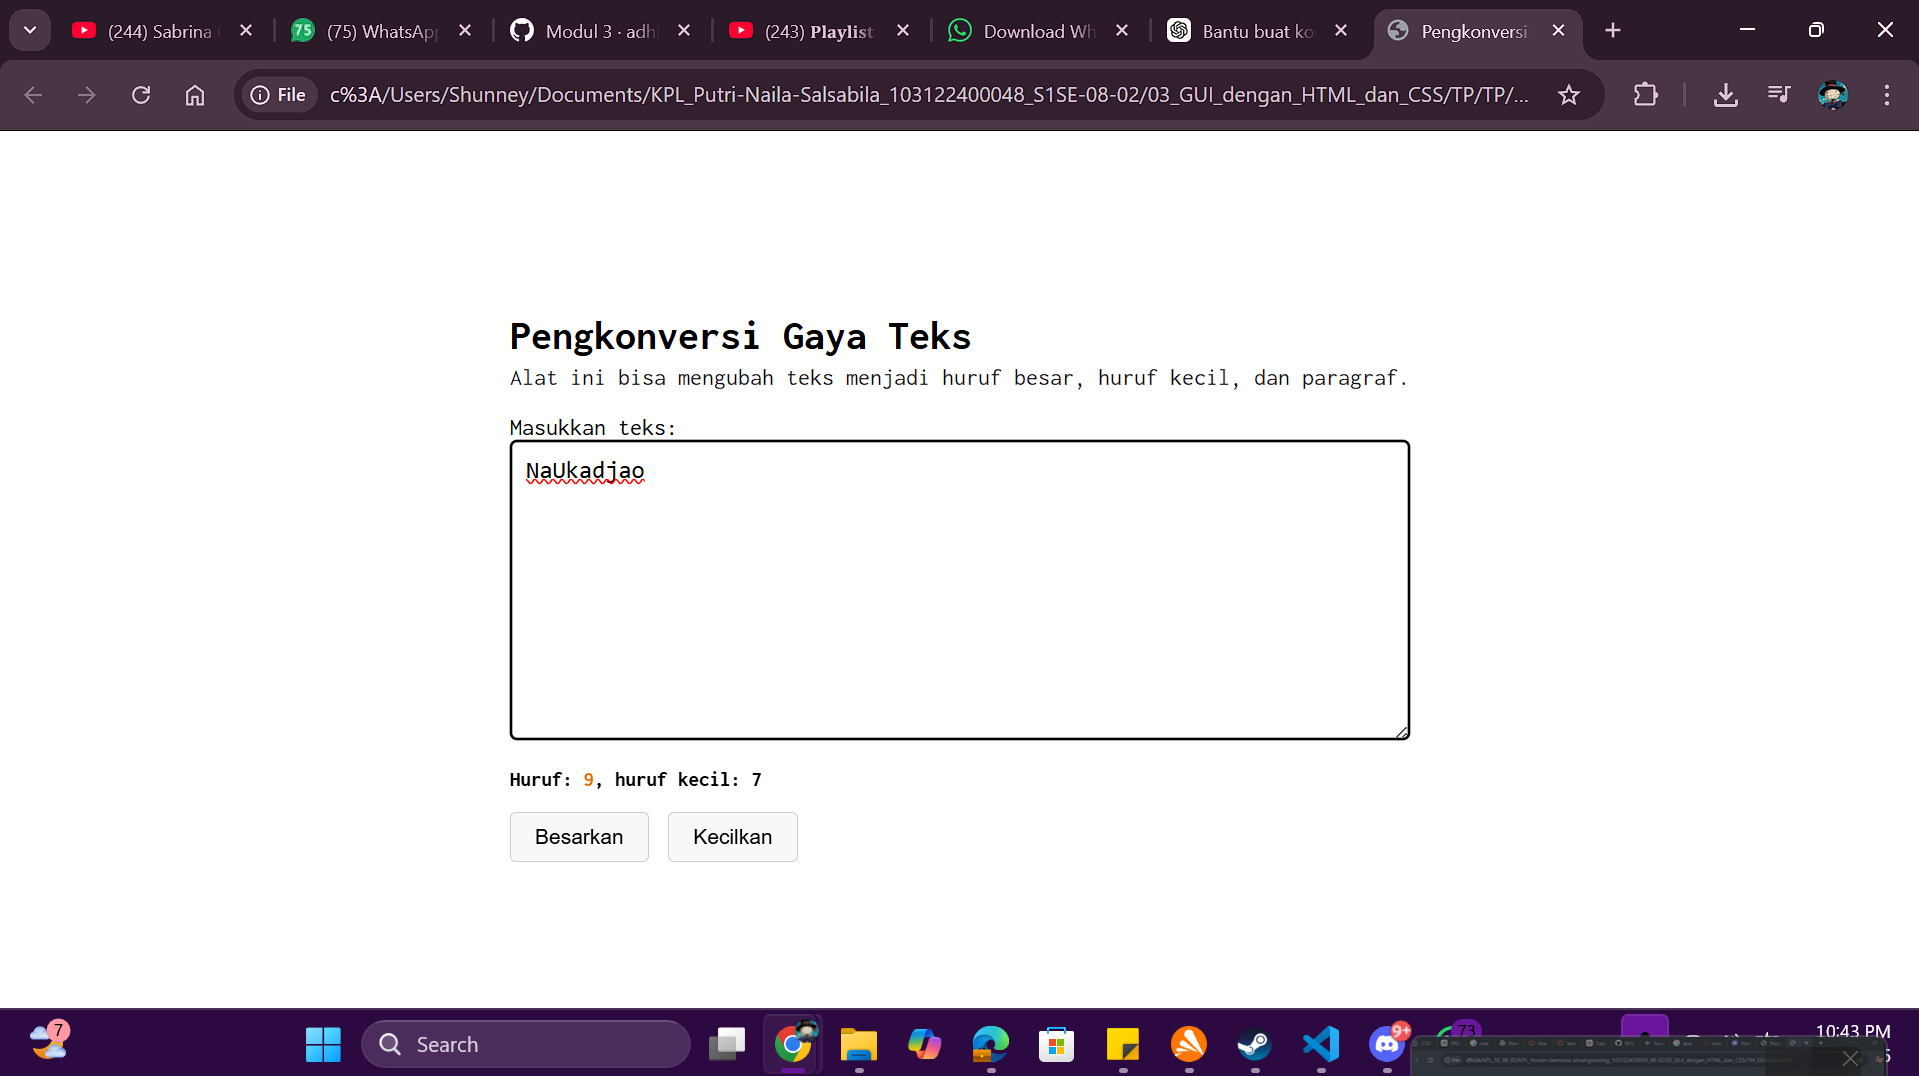
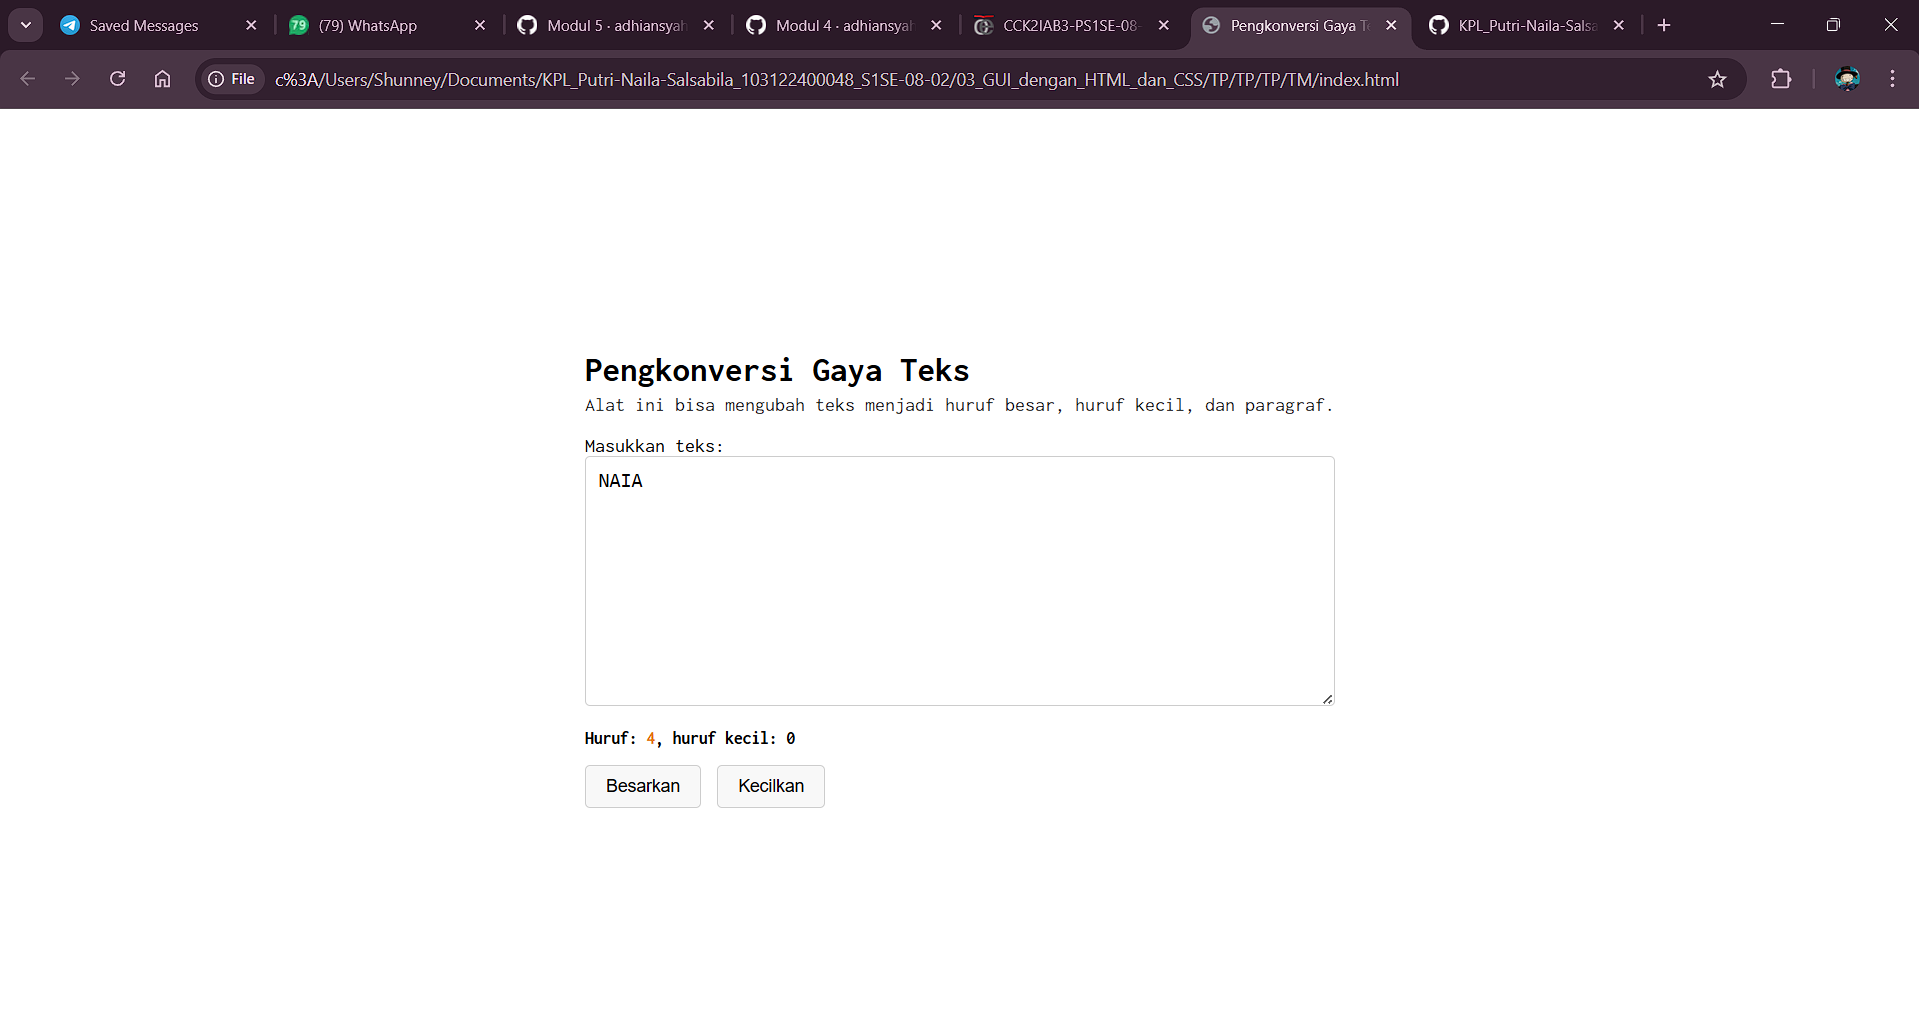
TM04 DAN TP05 PUSH

diff --git a/04_Automata dan Table-Driven Construction/TP/TM/index.css b/04_Automata dan Table-Driven Construction/TP/TM/index.css
@@ -1,0 +1,116 @@
+
+body {
+    margin: 0;
+    height: 100vh; 
+    display: flex;
+    justify-content: center; 
+    align-items: center;     
+    background-color: #ffffff;
+    font-family: 'Inconsolata', Tahoma, Geneva, Verdana, sans-serif;
+}
+
+.container {
+    width: 100%;
+    max-width: 600px; 
+    padding: 20px;
+}
+
+h2 {
+    margin-bottom: 5px;
+    font-size: 28px;
+}
+
+p {
+    margin-top: 0;
+    color: #333;
+    font-size: 16px;
+}
+
+textarea {
+    width: 100%;
+    height: 200px;
+    padding: 10px;
+    font-size: 16px;
+    border: 1px solid #ccc;
+    border-radius: 4px;
+    box-sizing: border-box; 
+    resize: vertical;
+}
+
+.stats {
+    margin: 15px 0;
+    font-weight: bold;
+    font-size: 14px;
+}
+
+#charCount, #upperCount, #lowerCount {
+    color: #e67e22; 
+}
+
+button {
+    padding: 8px 16px;
+    font-size: 14px;
+    cursor: pointer;
+    background-color: #29ddcc;
+    border: none;
+    border-radius: 4px;
+    margin: 0;
+}
+
+.button-group {
+    display: flex;
+    flex-wrap: wrap;
+    gap: 10px; 
+}
+
+.button-group {
+    margin-top: 10px;
+}
+
+button:hover {
+    background-color: #e0e0e0;
+}
+
+.dark-mode {
+    background-color: #0f172a;
+    color: #ffffff;
+}
+
+.dark-mode .container {
+    background-color: #1e293b;
+}
+
+.dark-mode textarea {
+    background-color: #2e3443;
+    color: #ffffff;
+    border: none; 
+}
+
+.dark-mode button {
+    background-color: #29ddcc;
+    color: #000;
+    border: none; 
+}
+
+.dark-mode button:hover {
+    background-color: #20c4b4;
+}
+
+.dark-mode p {
+    color: #cbd5e1; 
+}
+
+.sepia-mode {
+    background-color: #F4ECD8;
+    color: #5B4636;
+}
+
+.sepia-mode textarea {
+    background-color: #ffffff;
+    color: #000000;
+    border: 1px solid #ccc;
+}
+
+.sepia-mode p {
+    color: #5B4636;
+}

diff --git a/04_Automata dan Table-Driven Construction/TP/TM/index.html b/04_Automata dan Table-Driven Construction/TP/TM/index.html
@@ -1,0 +1,40 @@
+<!DOCTYPE html>
+<html lang="id">
+<head>
+    <meta charset="UTF-8">
+    <meta name="viewport" content="width=device-width, initial-scale=1.0">
+    <title>Pengkonversi Gaya Teks</title>
+    <link rel="preconnect" href="https://fonts.googleapis.com">
+    <link rel="preconnect" href="https://fonts.gstatic.com" crossorigin>
+    <link href="https://fonts.googleapis.com/css2?family=Inconsolata:wght@200..900&display=swap" rel="stylesheet">
+    <link rel="stylesheet" href="index.css">
+</head>
+<body>
+
+    <div class="container">
+        <h2>Pengkonversi Gaya Teks</h2>
+        <p>Alat ini bisa mengubah teks menjadi huruf besar, huruf kecil, dan paragraf.</p>
+
+        <label for="inputText">Masukkan teks:</label>
+        <textarea id="inputText" placeholder="Kata-kata..."></textarea>
+
+        <div class="stats">
+           Huruf: <span id="charCount">0</span>,
+           huruf kecil: <span id="hk">0</span>
+        </div>
+
+        <div class="button-group">
+           <button id="huruf-besar">Besarkan</button>
+           <button id="huruf-kecil">Kecilkan</button>
+        </div>
+
+        <div class="button-group">
+            <button id="mode-terang">Mode Terang</button>
+            <button id="mode-gelap">Mode Gelap</button>
+            <button id="mode-sepia">Mode Sepia</button>
+        </div>
+    </div>
+
+    <script src="index.js"></script>
+</body>
+</html>

diff --git a/04_Automata dan Table-Driven Construction/TP/TM/index.js b/04_Automata dan Table-Driven Construction/TP/TM/index.js
@@ -1,0 +1,46 @@
+const textarea = document.getElementById("inputText");
+const charCount = document.getElementById("charCount");
+const hk = document.getElementById("hk");
+
+const btnBesar = document.getElementById("huruf-besar");
+const btnKecil = document.getElementById("huruf-kecil");
+
+const btnTerang = document.getElementById("mode-terang");
+const btnGelap = document.getElementById("mode-gelap");
+const btnSepia = document.getElementById("mode-sepia");
+
+function updateStats() {
+
+    const text = textarea.value;
+
+    charCount.innerText = text.length;
+
+    hk.innerText = (text.match(/[a-z]/g) || []).length;
+}
+
+textarea.addEventListener("input", updateStats);
+
+btnBesar.addEventListener("click", function(){
+    textarea.value = textarea.value.toUpperCase();
+    updateStats();
+});
+
+btnKecil.addEventListener("click", function(){
+    textarea.value = textarea.value.toLowerCase();
+    updateStats();
+});
+
+btnGelap.addEventListener("click", function () {
+    document.body.classList.add("dark-mode");
+    document.body.classList.remove("sepia-mode");
+});
+
+btnTerang.addEventListener("click", function () {
+    document.body.classList.remove("dark-mode");
+    document.body.classList.remove("sepia-mode");
+});
+
+btnSepia.addEventListener("click", function () {
+    document.body.classList.remove("dark-mode");
+    document.body.classList.add("sepia-mode");
+});

diff --git a/05_Generics/TP_05/hitungjumlah.js b/05_Generics/TP_05/hitungjumlah.js
@@ -1,0 +1,28 @@
+function hitung(teks, tipe) {
+    let hasil = 0;
+
+    for (const c of teks) {
+        if (tipe === "semua") {
+            hasil++;
+
+        } else if (tipe === "huruf") {
+            if (c === ' ') continue;
+            hasil++;
+        }
+    }
+
+    return hasil;
+}
+
+//TEST CODE
+const str = "Bar bar bar";
+
+console.log(
+    hitung(str, "semua") 
+);
+
+console.log(
+    hitung(str, "huruf") 
+);
+
+hitung(str, "huruf");

diff --git a/05_Generics/TP_05/TP_05.md b/05_Generics/TP_05/TP_05.md
@@ -1,0 +1,17 @@
+# Tugas Pendahuluan: Generics
+
+**Nama:** Putri Naila Salsabila
+**NIM:** 103122400048 
+**Kelas:** SE-08-02
+
+## Program/Kode
+
+Tersedia di [hitungjumlah.js](../TP_05/hitungjumlah.js) 
+
+## Output
+
+![Gambar Output](Image7.png).
+
+## Deskripsi
+
+Program ini mengimplementasikan fungsi hitung yang dirancang untuk memproses sebuah string secara dinamis melalui satu struktur perulangan tunggal. Dengan menerima dua parameter input berupa teks dan tipe perhitungan, fungsi ini mampu beralih mode secara cerdas contohnya mode "semua" akan mengakumulasi seluruh karakter termasuk spasi, sementara mode "huruf" akan mengabaikan spasi menggunakan perintah continue untuk hanya menghitung karakter yang tampak.

diff --git a/04_Automata dan Table-Driven Construction/TP/TM/TM_04.md b/04_Automata dan Table-Driven Construction/TP/TM/TM_04.md
@@ -1,0 +1,17 @@
+# Tugas Mingguan: Automata dan Table Driven
+
+**Nama:** Putri Naila Salsabila
+**NIM:** 103122400048 
+**Kelas:** SE-08-02
+
+## Program/Kode
+
+Tersedia di [index.css](../TP/index.css) [index.html](../TP/index.html) dan [index.js](../TP/index.js)
+
+## Output
+
+![Gambar Output](image6.png).
+
+## Deskripsi
+
+aplikasi berbasis html ini berfungsi untuk mengkonversi gaya teks menjadi huruf besar, kecil,dan paragraf, juga ada fitur untuk mode gelap dan mode terang dan juga mode sepia agar menyesuaikan prefensi pengguna.
